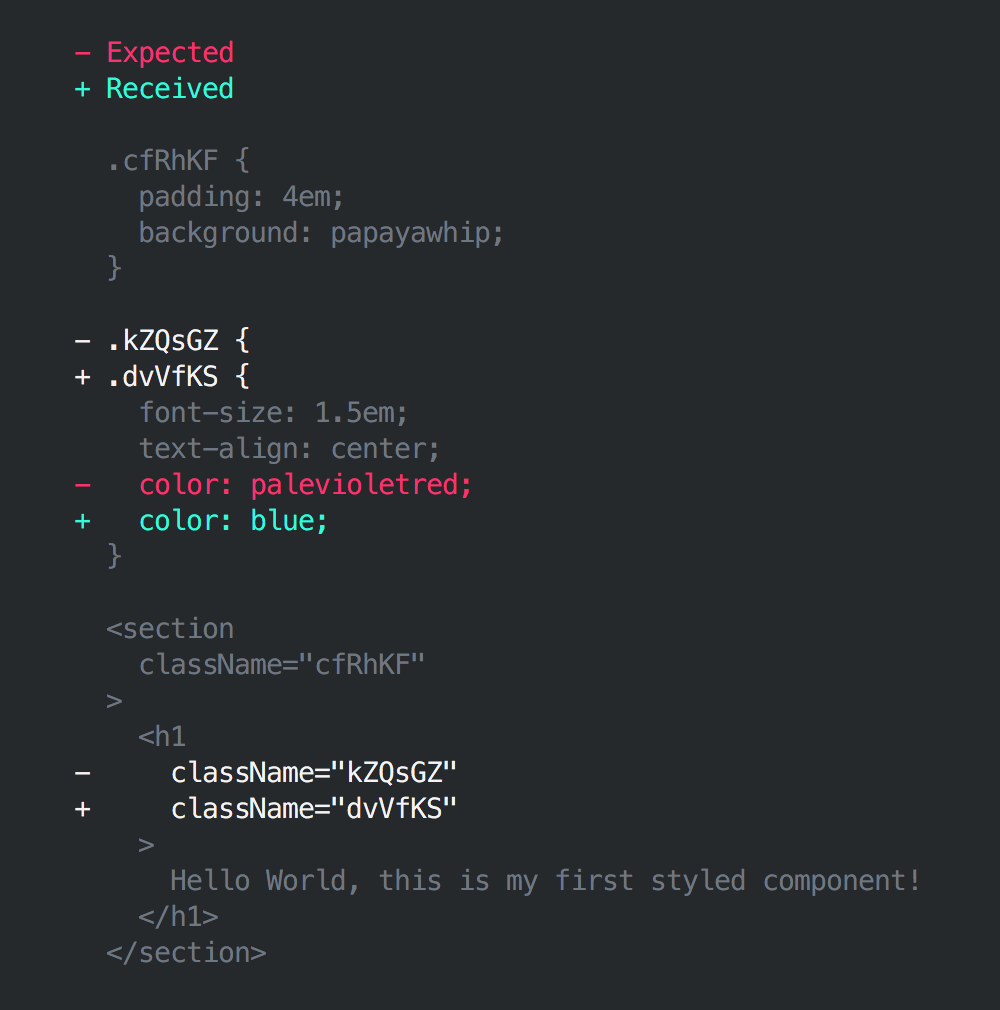
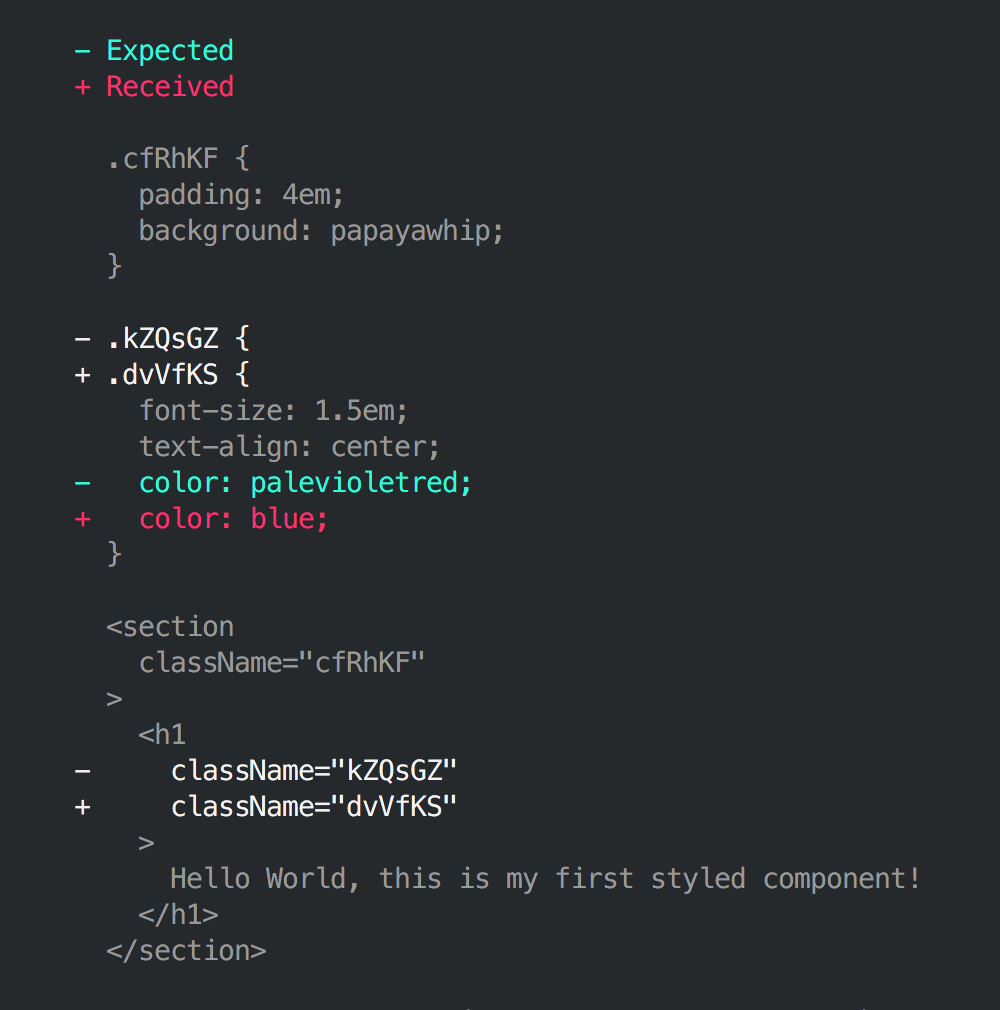
follow jest color conventions

diff --git a/src/matcher.js b/src/matcher.js
@@ -19,14 +19,14 @@ const colorize = message => (
     }
 
     if (isAddition(line)) {
-      return chalk.green(line)
-    }
-
-    if (isDeletion(line)) {
       return chalk.red(line)
     }
 
-    return chalk.gray(line)
+    if (isDeletion(line)) {
+      return chalk.green(line)
+    }
+
+    return chalk.dim(line)
   }).join('\n')
 )
 
